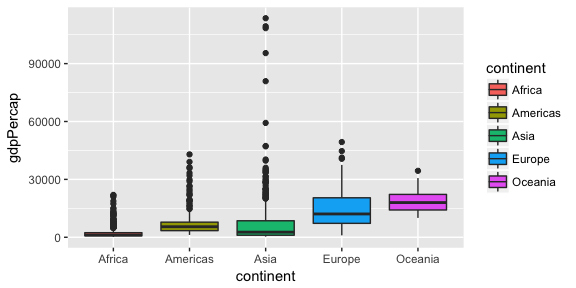
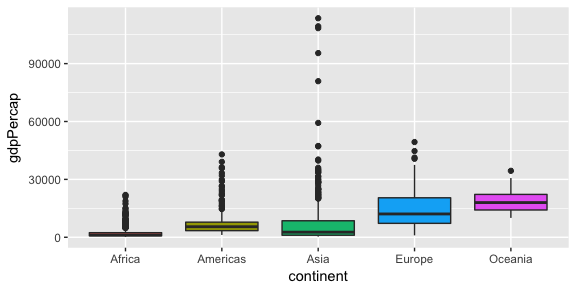
final touches to some figures, and knitted it all

diff --git a/hw03/hm03.md b/hw03/hm03.md
@@ -19,13 +19,12 @@ Homework Tasks
 *First, a simple table to show the minimum and maximum GDP per capita for each continent, with data from all years lumped together. I've also included the GDP gap between max and min*
 
 ``` r
-fig1_table <- gapminder %>% 
+gapminder %>% 
   group_by(continent) %>% 
   summarise(min_GDP = min(gdpPercap), 
             max_GDP = max(gdpPercap), 
-            gap = max(gdpPercap) - min(gdpPercap))
-  
-knitr::kable(fig1_table) # makes the table look prettier
+            gap = max(gdpPercap) - min(gdpPercap)) %>% 
+  knitr::kable() # makes the table look prettier
 ```
 
 | continent |    min\_GDP|   max\_GDP|        gap|
@@ -36,7 +35,7 @@ knitr::kable(fig1_table) # makes the table look prettier
 | Europe    |    973.5332|   49357.19|   48383.66|
 | Oceania   |  10039.5956|   34435.37|   24395.77|
 
-*But let's see how this has changed over the years for each continent. Has the gap grown or shrunk at all? (group by continent and year this time, then plot it*
+*But we have data for a good period of time, so let's see how this has changed over the years for each continent. Has the gap grown or shrunk at all? (group by continent and year this time, then plot it*
 
 ``` r
 gapminder %>%
@@ -54,40 +53,76 @@ gapminder %>%
 
 ![](hm03_files/figure-markdown_github-ascii_identifiers/unnamed-chunk-3-1.png)
 
+*From the 1950s through to the early 1980s, Asia showed a large deviation in per capita GDP compared to the other continents. Since the late 1980s, this seems to have smoothed out, and this metric has steadily risen as it has for the other continents.*
+
 **Task 2**: Look at the spread of GDP per capita within the continents.
 
 ``` r
 gapminder %>%
-  group_by(continent) %>% 
-  ggplot(aes(year, gdpPercap)) +
-  geom_point(aes(colour = continent)) +
-  geom_smooth(aes(colour = continent), method = "lm", se = F)
+  ggplot(aes(x=continent, y=gdpPercap)) +
+  geom_boxplot(aes(fill = continent), show.legend = F)
 ```
 
 ![](hm03_files/figure-markdown_github-ascii_identifiers/unnamed-chunk-4-1.png)
 
-Find out which country/countries show declining GDP per capita
-
-``` r
-# gapminder %>% 
-#   group_by(continent)
-#   lm(gdpPercap ~ year, .) %>% 
-#   
-```
+*Asia really stands out from the other continents in this figure. The spread between the low and high ends of per capitat GDP within Asian countries is massive, and by far the highest per capita GDPs in the world are found in Asia (as are some of the lowest)*
 
 **Task 3**: Compute a trimmed mean of life expectancy for different years. Or a weighted mean, weighting by population. Just try something other than the plain vanilla mean.
+
+``` r
+trimmed <- gapminder %>% 
+  group_by(continent, year) %>% 
+  # to get a sense of how much to trim, I'll check out a set of trimmed means
+  # ranging from 10-50%. This will dampen the influence of the greatly deviating
+  # found in some countries
+  summarise(trim_mean10 = mean(lifeExp, trim = 0.1),
+            trim_mean25 = mean(lifeExp, trim = 0.25),
+            trim_mean50 = mean(lifeExp, trim = 0.55))
+
+glimpse(trimmed)
+```
+
+    ## Observations: 60
+    ## Variables: 5
+    ## $ continent   <fctr> Africa, Africa, Africa, Africa, Africa, Africa, A...
+    ## $ year        <int> 1952, 1957, 1962, 1967, 1972, 1977, 1982, 1987, 19...
+    ## $ trim_mean10 <dbl> 38.93298, 40.96993, 43.04819, 45.11750, 47.26495, ...
+    ## $ trim_mean25 <dbl> 39.14381, 41.03831, 42.96412, 44.97027, 47.06935, ...
+    ## $ trim_mean50 <dbl> 38.8330, 40.5925, 42.6305, 44.6985, 47.0315, 49.27...
+
+*Looking at the data, there doesn't seem to be much difference among the means when trimmed to 10 or 50%, so I'll just use 25%*
+
+``` r
+trimmed %>% 
+  ggplot(aes(year)) +
+  geom_line(aes(y = trim_mean25, colour = "continent")) +
+  facet_grid(~ continent) +
+  theme(axis.text.x = element_text(size = 7, 
+                                   angle = 90), 
+        legend.position = "none")
+```
+
+![](hm03_files/figure-markdown_github-ascii_identifiers/unnamed-chunk-6-1.png)
 
 **Task 4**: How is life expectancy changing over time on different continents?
 
 ``` r
-gapminder %>%
-  group_by(continent) %>% 
-  ggplot(aes(year, lifeExp)) +
-  geom_point(aes(colour = continent)) +
-  geom_smooth(aes(colour = continent), method = "lm", se = F)
+gapminder %>% 
+  group_by(continent, year) %>% 
+  summarise(life_exp = mean(lifeExp)) %>% 
+  ggplot(aes(year, life_exp)) +
+  geom_smooth(method = "loess", aes(colour = continent), se = FALSE) +
+  facet_grid(~ continent) +
+  labs(x = "Year", y = "Mean life expectancy (years)") + 
+  theme(axis.text.x = element_text(size = 7, angle = 90))
 ```
 
 ![](hm03_files/figure-markdown_github-ascii_identifiers/unnamed-chunk-7-1.png)
+
+*Life expectancy seems to be on the rise across all continents, when lumping all countries together.*
+
+The following tasks were not completed, but I will leave the prompts here in case I ever decided to come back to them
+---------------------------------------------------------------------------------------------------------------------
 
 **Task 5**: Report the absolute and/or relative abundance of countries with low life expectancy over time by continent: Compute some measure of worldwide life expectancy – you decide – a mean or median or some other quantile or perhaps your current age. Then determine how many countries on each continent have a life expectancy less than this benchmark, for each year.
 
